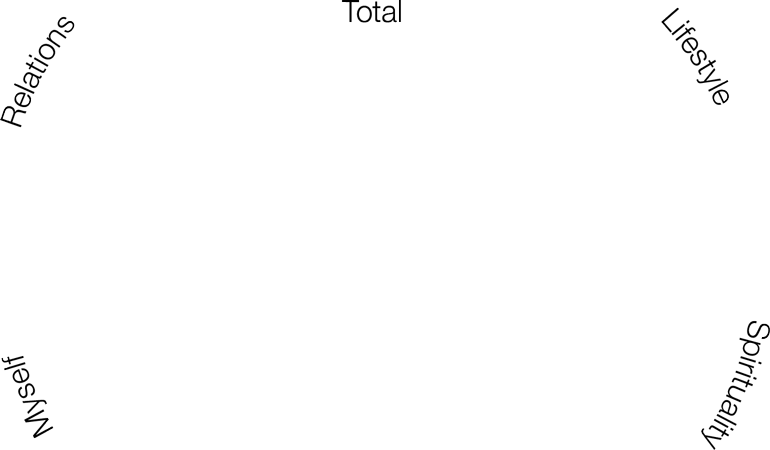
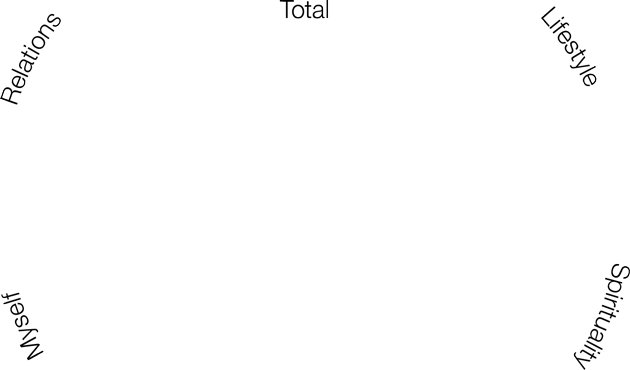
fghjk

diff --git a/pgr/js/libs/directives.js b/pgr/js/libs/directives.js
@@ -202,8 +202,8 @@ pgrModule.directive('mydash', function() {
           container.setBounds(0, 0, centerImg.width, centerImg.height);
 
           var centerImgContainer = new createjs.Bitmap(centerImg);
-          centerImgContainer.x = 0;
-          centerImgContainer.y = 0;
+          centerImgContainer.x = 3;
+          centerImgContainer.y = -30;
 
           container.addChildAt(centerImgContainer, 0);
           dashboard.update();
